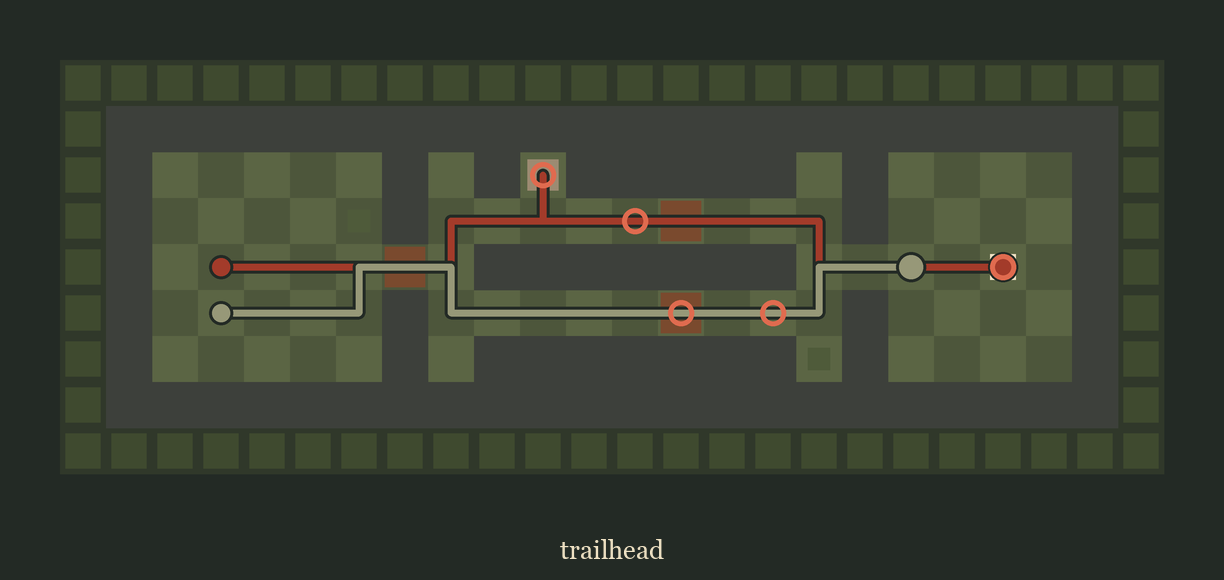
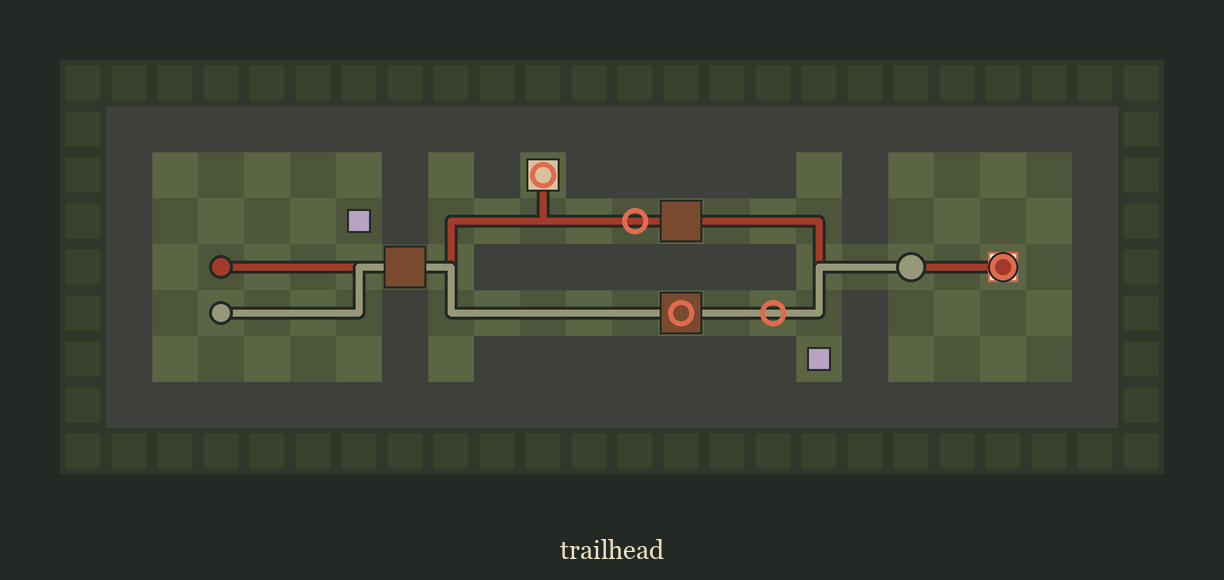
fix: make every piece on a level map readable (v0.8.1)
Pieces were disappearing into the floor. The in-game colours do not all
survive the move to a top-down diagram: a lever is pine green in the world,
where it stands up off the ground and reads fine, and vanishes into a green
checker when flattened.

Changed:
- Every piece now has a hue the floor does not use and a dark outline: door
  brown, summit gate ember, lever heather, plate sand, key ochre, false key a
  dulled ochre, sightstone stone, summit cream ringed in ember. Pits keep the
  near-black but gain a sand edge so they read as holes rather than as gaps.
- Both spawns are marked with a disc in that seat's scarf colour.
- The route is drawn under the pieces instead of over them, so it no longer
  paints out the keys and levers it is there to explain.

diff --git a/tools/render_level.py b/tools/render_level.py
@@ -11,27 +11,31 @@ from PIL import ImageDraw
 
 import levelcheck
 from boxrender import (NIGHT, SIENNA, EMBER, CREAM, SAND, OCHRE, PINE, UMBER, STONE,
-                       MOSS, GROUT, PIT, BOULDER, NEEDLE, SS,
+                       HEATHER, MOSS, GROUT, PIT, BOULDER, NEEDLE, SS,
                        canvas, finish, font, lerp, out_dir)
 
 LEVELS = os.path.join(os.path.dirname(os.path.abspath(__file__)),
                       "..", "Assets", "StreamingAssets", "levels")
 
-# glyph -> (fill, inset fraction). None means draw the floor only.
+# glyph -> (fill, inset fraction, outline). Every piece is given a hue of its own and an
+# outline, because the floor is a green checker and anything green or unlined vanishes
+# into it. The in-game colours are not all usable here: a lever is pine green in the
+# world, where it stands up off the floor and reads fine, and invisible from above.
+SPAWNS = {"P": SIENNA, "1": lerp(PINE, CREAM, 0.45), "2": OCHRE}
 CELL = {
-    "#": (lerp(BOULDER, NIGHT, 0.66), 0.0),
-    "T": (NEEDLE, 0.12),
-    "D": (UMBER, 0.06),
-    "F": (lerp(UMBER, OCHRE, 0.45), 0.06),
-    "L": (PINE, 0.26),
-    "B": (STONE, 0.16),
-    "K": (OCHRE, 0.3),
-    "k": (lerp(OCHRE, MOSS, 0.55), 0.3),
-    "H": (PIT, 0.1),
-    "h": (lerp(PIT, MOSS, 0.55), 0.1),
-    "S": (STONE, 0.28),
-    "G": (CREAM, 0.22),
-    "E": (lerp(MOSS, CREAM, 0.12), 0.34),
+    "#": (lerp(BOULDER, NIGHT, 0.66), 0.0, None),
+    "T": (lerp(NEEDLE, NIGHT, 0.25), 0.12, None),
+    "D": (UMBER, 0.04, NIGHT),
+    "F": (EMBER, 0.04, NIGHT),
+    "L": (HEATHER, 0.24, NIGHT),
+    "B": (SAND, 0.14, NIGHT),
+    "K": (OCHRE, 0.26, NIGHT),
+    "k": (lerp(OCHRE, STONE, 0.55), 0.26, NIGHT),
+    "H": (PIT, 0.08, SAND),
+    "h": (lerp(PIT, SAND, 0.22), 0.2, SAND),
+    "S": (STONE, 0.24, CREAM),
+    "G": (CREAM, 0.18, EMBER),
+    "E": (lerp(MOSS, CREAM, 0.3), 0.36, None),
 }
 
 
@@ -52,42 +56,44 @@ def render(level_id, with_route=True, with_name=False):
     W, H = w * cell + margin * 2, h * cell + margin * 2 + (46 if with_name else 0)
     img, d = canvas(W, H, False)
 
-    def rect(x, y, inset, fill):
+    def rect(x, y, inset, fill, outline=None):
         a = inset * cell
         d.rectangle([((margin + x * cell + a)) * SS, ((margin + y * cell + a)) * SS,
                      ((margin + (x + 1) * cell - a)) * SS, ((margin + (y + 1) * cell - a)) * SS],
-                    fill=fill + (255,))
+                    fill=fill + (255,),
+                    outline=None if outline is None else outline + (255,),
+                    width=0 if outline is None else max(2, cell // 16) * SS)
+
+    def disc(x, y, r, fill, outline):
+        cx = (margin + x * cell + cell / 2) * SS
+        cy = (margin + y * cell + cell / 2) * SS
+        d.ellipse([cx - r * SS, cy - r * SS, cx + r * SS, cy + r * SS],
+                  fill=fill + (255,), outline=outline + (255,), width=3 * SS)
 
     # Floor first, as a quiet checker so the grid is legible without drawing lines.
     for y in range(h):
         for x in range(w):
             g = at(x, y)
             if g == "T":
-                rect(x, y, 0, lerp(NIGHT, NEEDLE, 0.45))
+                rect(x, y, 0, lerp(NIGHT, NEEDLE, 0.4))
             elif g == "#":
-                rect(x, y, 0, lerp(NIGHT, NEEDLE, 0.45))
+                rect(x, y, 0, lerp(NIGHT, NEEDLE, 0.4))
             else:
                 # A quiet checker, so the grid reads without drawing lines over it.
                 rect(x, y, 0, MOSS if (x + y) % 2 == 0 else lerp(MOSS, GROUT, 0.6))
 
-    for y in range(h):
-        for x in range(w):
-            g = at(x, y)
-            if g in CELL:
-                fill, inset = CELL[g]
-                rect(x, y, inset, fill)
+    def centre(c):
+        # levelcheck stores tiles at (x, h - 1 - row): its y counts north from the south
+        # edge, while rows and this picture run north to south. Flip, or the route comes
+        # out mirrored and walks through walls.
+        row = h - 1 - c[1]
+        return ((margin + c[0] * cell + cell / 2) * SS, (margin + row * cell + cell / 2) * SS)
 
-    # The route, one line per leopard, drawn over the map.
+    # The route runs UNDER the pieces: drawn last it covers the keys and levers it is
+    # there to explain.
+    ends = []
     if with_route and duo:
-        actions, _switches, acts, states = duo[0], duo[1], duo[2], duo[3]
-
-        def centre(c):
-            # levelcheck stores tiles at (x, h - 1 - row): its y counts north from the south
-            # edge, while rows and this picture run north to south. Flip, or the route comes
-            # out mirrored and walks through walls.
-            row = h - 1 - c[1]
-            return ((margin + c[0] * cell + cell / 2) * SS, (margin + row * cell + cell / 2) * SS)
-
+        acts, states = duo[2], duo[3]
         for seat, colour in ((0, SIENNA), (1, lerp(PINE, CREAM, 0.45))):
             pts = [centre(st[seat]) for st in states]
             thin = [pts[0]]
@@ -98,11 +104,28 @@ def render(level_id, with_route=True, with_name=False):
                 # A dark halo under each line, so pine does not sink into the grass.
                 d.line(thin, fill=NIGHT + (255,), width=13 * SS, joint="curve")
                 d.line(thin, fill=colour + (255,), width=7 * SS, joint="curve")
-            for p, r in ((thin[0], 12), (thin[-1], 15)):
-                d.ellipse([p[0] - r * SS, p[1] - r * SS, p[0] + r * SS, p[1] + r * SS],
-                          fill=colour + (255,), outline=NIGHT + (255,), width=3 * SS)
+            ends.append((thin[-1], colour))
 
-        # Where control passes from one leopard to the other.
+    for y in range(h):
+        for x in range(w):
+            g = at(x, y)
+            if g in CELL:
+                fill, inset, outline = CELL[g]
+                rect(x, y, inset, fill, outline)
+
+    # Where each leopard starts, in its own scarf colour, and where it ends up.
+    for y in range(h):
+        for x in range(w):
+            if at(x, y) in SPAWNS:
+                disc(x, y, cell * 0.26, SPAWNS[at(x, y)], NIGHT)
+    for (px, py), colour in ends:
+        r = 15 * SS
+        d.ellipse([px - r, py - r, px + r, py + r], fill=colour + (255,),
+                  outline=NIGHT + (255,), width=3 * SS)
+
+    # Where control passes from one leopard to the other.
+    if with_route and duo:
+        acts, states = duo[2], duo[3]
         for i in range(len(acts) - 1):
             if acts[i][0] != acts[i + 1][0]:
                 cx, cy = centre(states[min(i + 1, len(states) - 1)][acts[i][0]])

diff --git a/tools/boxrender.py b/tools/boxrender.py
@@ -25,6 +25,8 @@ OCHRE   = hex_rgb(0xD9A441)
 PINE    = hex_rgb(0x4F5B3A)
 UMBER   = hex_rgb(0x7A4A2E)
 STONE   = hex_rgb(0x9C8B72)
+HEATHER = hex_rgb(0xB9A3C4)
+PLUM    = hex_rgb(0x6B3F4A)
 ROSETTE = hex_rgb(0x3B342C)
 MOSS    = hex_rgb(0x5B6544)
 GROUT   = hex_rgb(0x444C35)

diff --git a/README.md b/README.md
@@ -6,7 +6,7 @@ A networked two-player co-op puzzle crawler, drawn like a 1970s national park po
 
 This repository is the **Unity client**. The authoritative simulation is a Rust server that is still being built. Until it exists, a mock feed built into the client stands in for it, so the game is fully playable offline.
 
-Current version: **v0.8.0** (see [Versioning](#versioning)).
+Current version: **v0.8.1** (see [Versioning](#versioning)).
 
 ## Requirements
 
@@ -239,6 +239,7 @@ The project follows [Semantic Versioning](https://semver.org). While it is below
 
 | Version | Summary |
 | --- | --- |
+| v0.8.1 | Level maps mark both spawns and give every piece a colour the floor does not already use |
 | v0.8.0 | Documentation renders: a prop sheet, and level maps drawn with the solver's route on them |
 | v0.7.1 | The field guide is swatches and names, without the sentences |
 | v0.7.0 | The placeholder leopard is rebuilt: cat proportions instead of ferret, and the scarf rings the neck |
